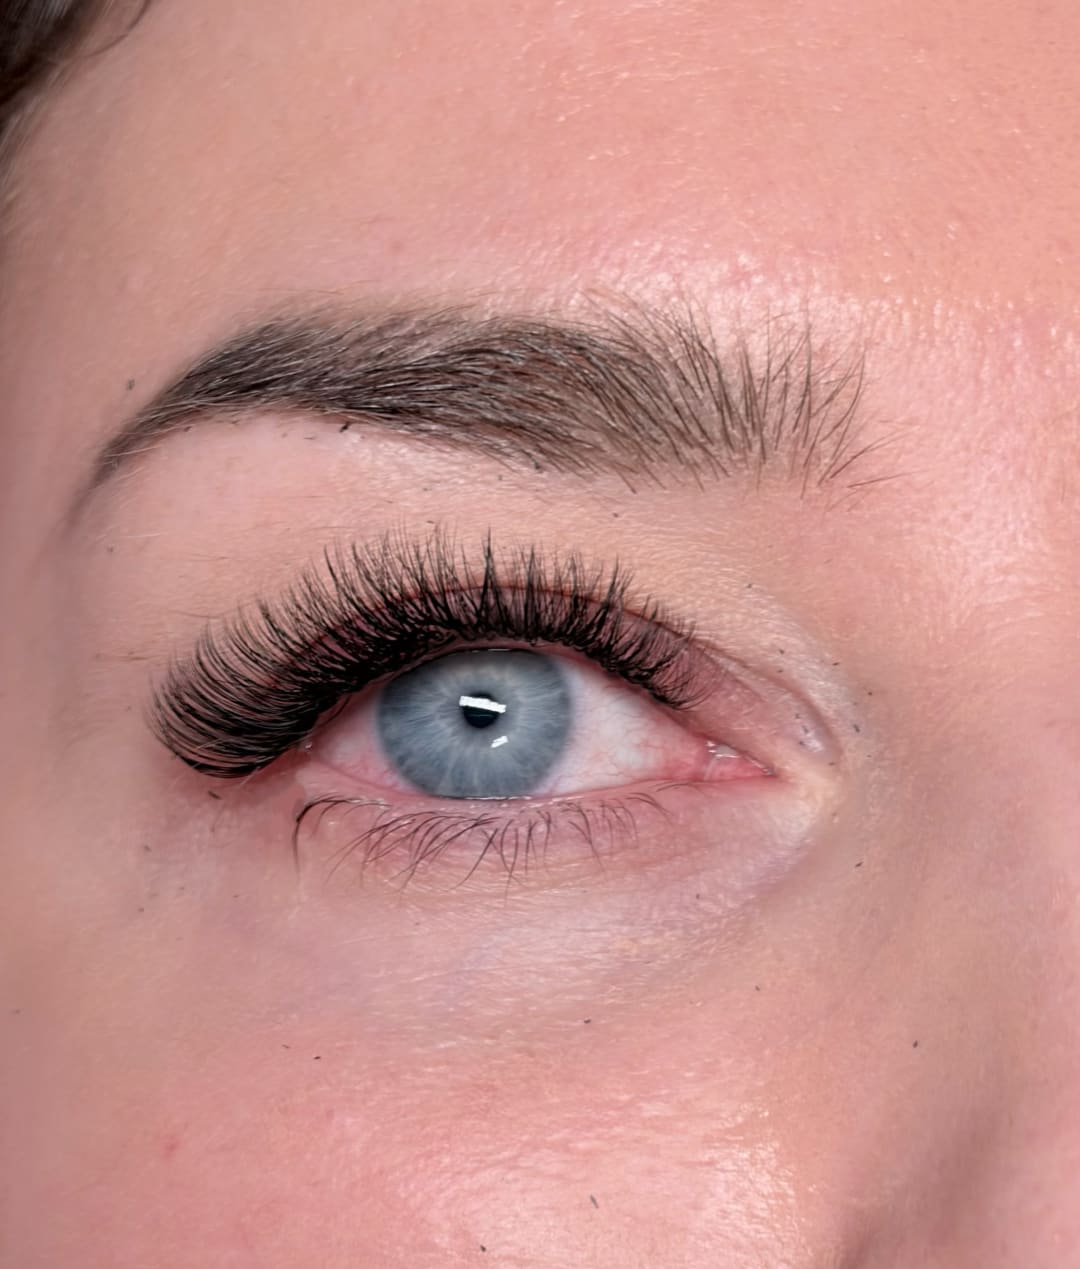
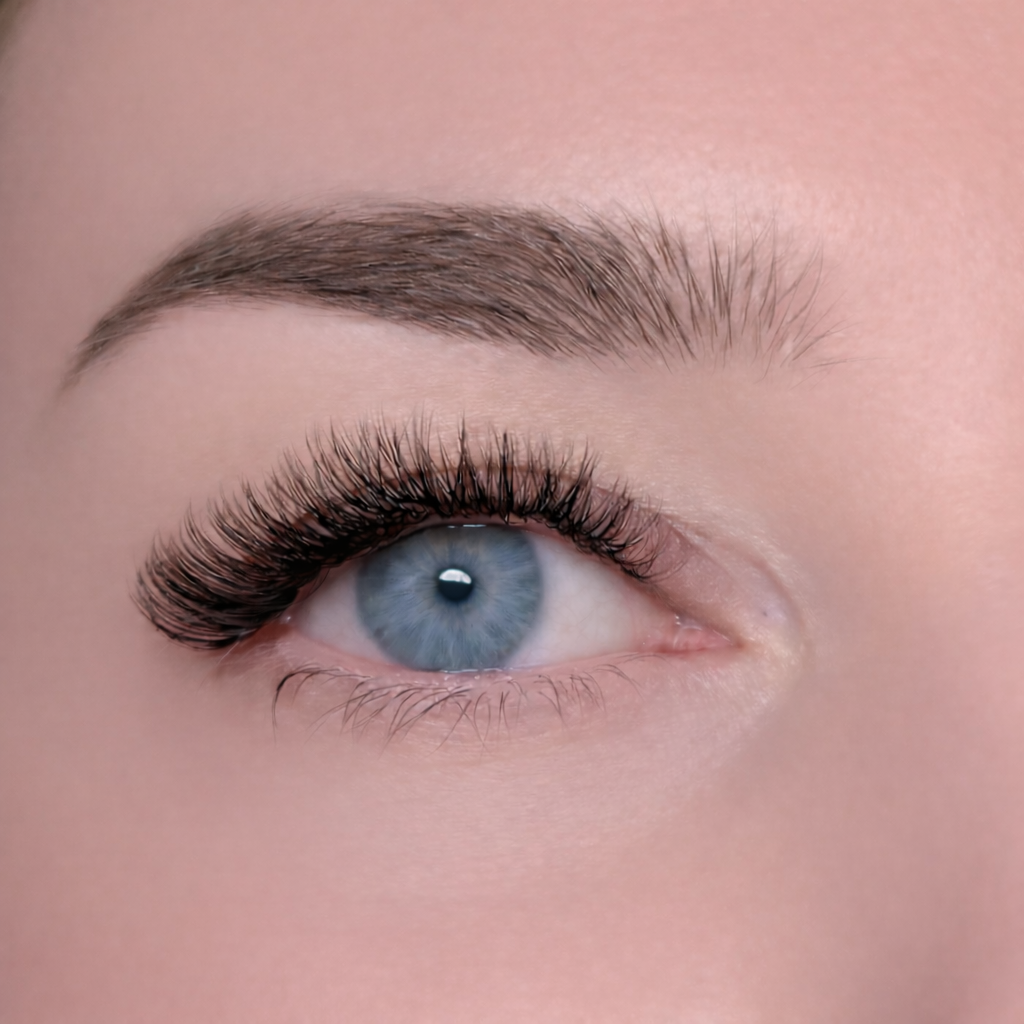
feat: implement sticky header functionality and adjust layout for homepage

diff --git a/src/pages/HomePage.tsx b/src/pages/HomePage.tsx
@@ -1,8 +1,26 @@
-import { useRef } from "react";
+import { useEffect, useRef, useState } from "react";
 import Header from "@/components/layout/Header";
 
 export default function HomePage() {
   const nextSectionRef = useRef<HTMLElement | null>(null);
+  const heroRef = useRef<HTMLElement | null>(null);
+  const [showStickyHeader, setShowStickyHeader] = useState(false);
+
+  useEffect(() => {
+    const el = heroRef.current;
+    if (!el) return;
+
+    const observer = new IntersectionObserver(
+      ([entry]) => {
+        // Show sticky header when hero is mostly out of view
+        setShowStickyHeader(!entry.isIntersecting || entry.intersectionRatio < 0.15);
+      },
+      { root: null, threshold: [0, 0.15] },
+    );
+
+    observer.observe(el);
+    return () => observer.disconnect();
+  }, []);
 
   const scrollToNextSlow = () => {
     const target = nextSectionRef.current;
@@ -34,7 +52,10 @@ export default function HomePage() {
 
   return (
     <main>
+      {showStickyHeader ? <Header mode="sticky" /> : null}
       <section
+        id="home"
+        ref={heroRef}
         className="relative min-h-screen overflow-hidden cursor-pointer"
         role="button"
         tabIndex={0}
@@ -48,24 +69,26 @@ export default function HomePage() {
         style={{
           backgroundImage: "url(/img/lashes-by-linh-1.jpg)",
           backgroundSize: "cover",
-          backgroundPosition: "95% 72%",
+          backgroundPosition: "95% 92%",
         }}
       >
         <div
-          className="absolute inset-0 scale-[0.99]"
+          className="absolute inset-0 scale-[1]"
           style={{
             backgroundImage: "url(/img/lashes-by-linh-1.jpg)",
             backgroundSize: "cover",
-            backgroundPosition: "95% 72%",
+            backgroundPosition: "95% 92%",
             transformOrigin: "center",
           }}
         />
         <div className="absolute inset-0 bg-black/65" />
         <div className="absolute inset-0 bg-gradient-to-b from-black/20 via-black/50 to-black/70" />
 
-        <div onClick={(e) => e.stopPropagation()} onKeyDown={(e) => e.stopPropagation()}>
-          <Header />
-        </div>
+        {!showStickyHeader ? (
+          <div onClick={(e) => e.stopPropagation()} onKeyDown={(e) => e.stopPropagation()}>
+            <Header mode="hero" />
+          </div>
+        ) : null}
 
         <div className="relative z-10 flex min-h-screen items-center justify-center px-4">
           <div className="translate-y-16 md:translate-y-20">

diff --git a/src/components/layout/Header.tsx b/src/components/layout/Header.tsx
@@ -1,6 +1,8 @@
 import { useEffect, useState } from "react";
 import Button from "@/components/ui/Button";
 
+type HeaderMode = "hero" | "sticky";
+
 const navItems: Array<{ label: string; href: string; external?: boolean }> = [
   { label: "Hjem", href: "#home" },
   { label: "Tjenester", href: "#tjenester" },
@@ -10,7 +12,7 @@ const navItems: Array<{ label: string; href: string; external?: boolean }> = [
   { label: "Instagram", href: "https://instagram.com/", external: true },
 ];
 
-export default function Header() {
+export default function Header({ mode = "hero" }: { mode?: HeaderMode }) {
   const [open, setOpen] = useState(false);
 
   useEffect(() => {
@@ -33,8 +35,14 @@ export default function Header() {
 
   return (
     <>
-      <header className="absolute left-0 right-0 top-0 z-20">
-        <div className="mx-auto flex max-w-6xl items-center justify-between px-8 py-4 lg:px-12">
+      <header
+        className={
+          mode === "sticky"
+            ? "fixed left-0 right-0 top-0 z-40 border-b border-white/10 bg-black/35 backdrop-blur-md"
+            : "absolute left-0 right-0 top-0 z-20"
+        }
+      >
+        <div className="relative mx-auto flex max-w-6xl items-center justify-between px-8 py-4 lg:px-12">
           <button
             type="button"
             className="relative grid h-11 w-11 cursor-pointer place-items-center border border-[color:var(--color-gold)] bg-black/20 text-[color:var(--color-gold)] transition-all duration-300 hover:bg-black/40 hover:shadow-[0_0_0_3px_rgba(200,169,106,0.18)] hover:scale-[1.03] active:scale-[0.98] focus-visible:outline-none focus-visible:ring-2 focus-visible:ring-[color:var(--color-gold)]/40"
@@ -57,6 +65,21 @@ export default function Header() {
               }`}
             />
           </button>
+
+          {mode === "sticky" ? (
+            <a
+              href="#home"
+              aria-label="Gå til toppen"
+              className="absolute left-1/2 top-1/2 hidden -translate-x-1/2 -translate-y-1/2 text-center md:block"
+            >
+              <div className="text-[22px] tracking-[0.55em] text-white/90">
+                BEAUTY BY LINH
+              </div>
+              <div className="mt-1 text-[11px] tracking-[0.7em] text-white/55">
+                OSLO
+              </div>
+            </a>
+          ) : null}
 
           <Button
             href="https://timma.no/salong/lashes-by-linh"
